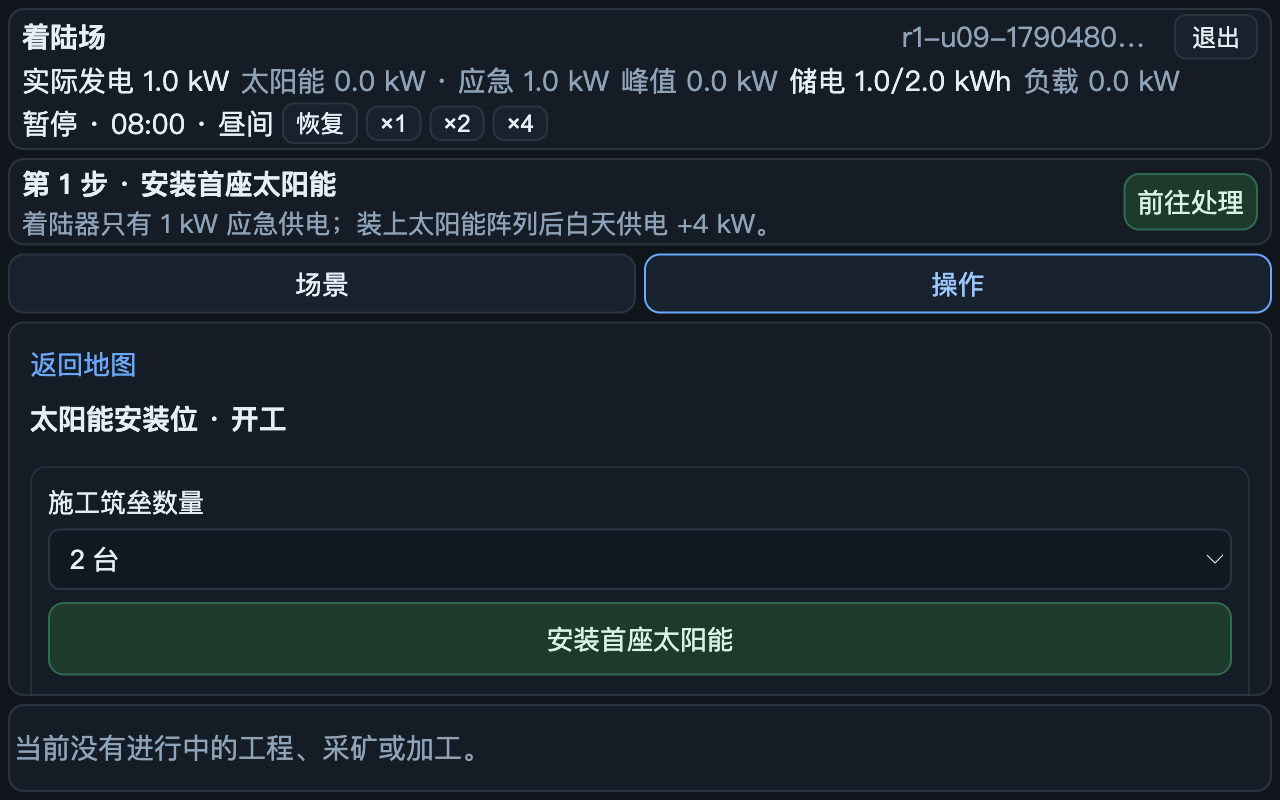
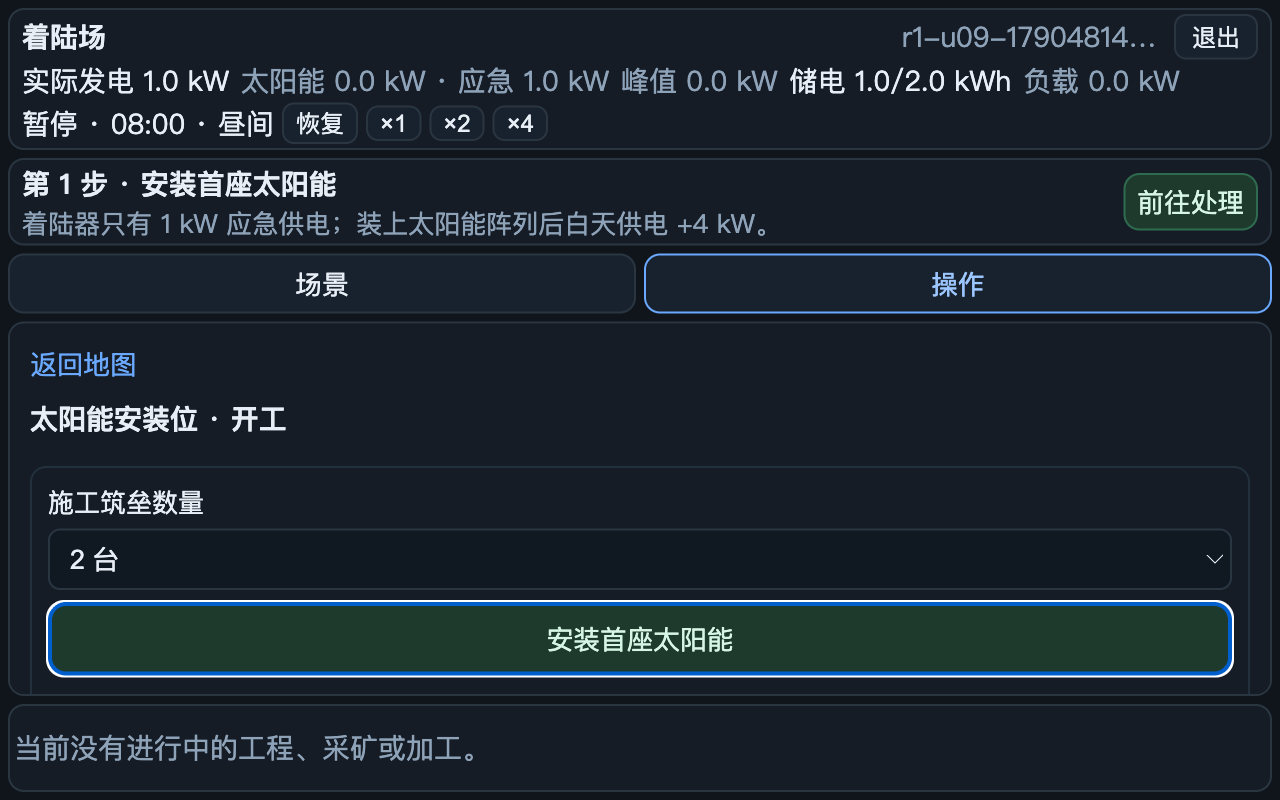
docs: record native zoom keyboard acceptance

Changed region(s): [[0.0312, 0.75, 0.9688, 0.875], [0.8438, 0.0312, 0.9062, 0.0625]]

diff --git a/docs/implementation/2026-09-26-landing-rebuild/evidence/native-zoom/README.md b/docs/implementation/2026-09-26-landing-rebuild/evidence/native-zoom/README.md
@@ -1,7 +1,7 @@
 # U09 原生200%浏览器缩放
 
-2026-09-27，候选75e9d94，真实headed Chromium、临时独立普通profile、本地隔离PG。
+2026-09-27，候选7662a29，真实headed Chromium、临时独立普通profile、本地隔离PG。
 
-通过Chrome设置页原生选择200%，实际viewport 1280×800→640×400，DPR1→2；未使用CSS zoom或模拟缩放。根页面无横纵溢出，目标/安装按钮在局部操作区完整可见且未预先滚动；真实UI点击取得projectId、HTTP201与开工回执。用例7.2秒通过，截图由主控检查。
+通过Chrome设置页原生选择200%，实际viewport 1280×800→640×400，DPR1→2；未使用CSS zoom或模拟缩放。根页面无横纵溢出，目标/安装按钮在局部操作区完整可见且未预先滚动；真实UI点击取得projectId、HTTP201与开工回执。另通过真实Tab和Enter完成目标选择、首安装及返回地图，返回后场景被选中、地图可见。用例7.3秒通过，截图由主控检查。
 
 这里只证明缩放下可操作并开工，不证明设施完工或三圈经营。
